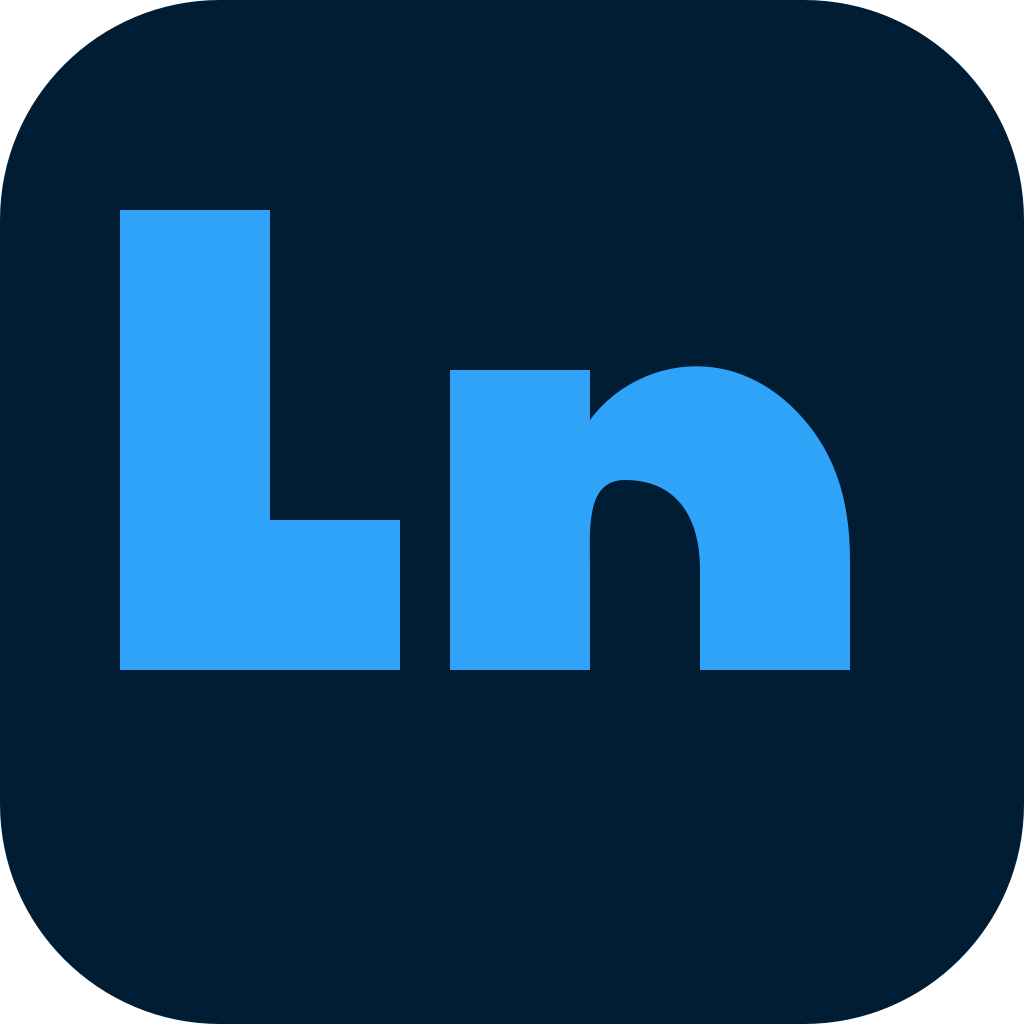
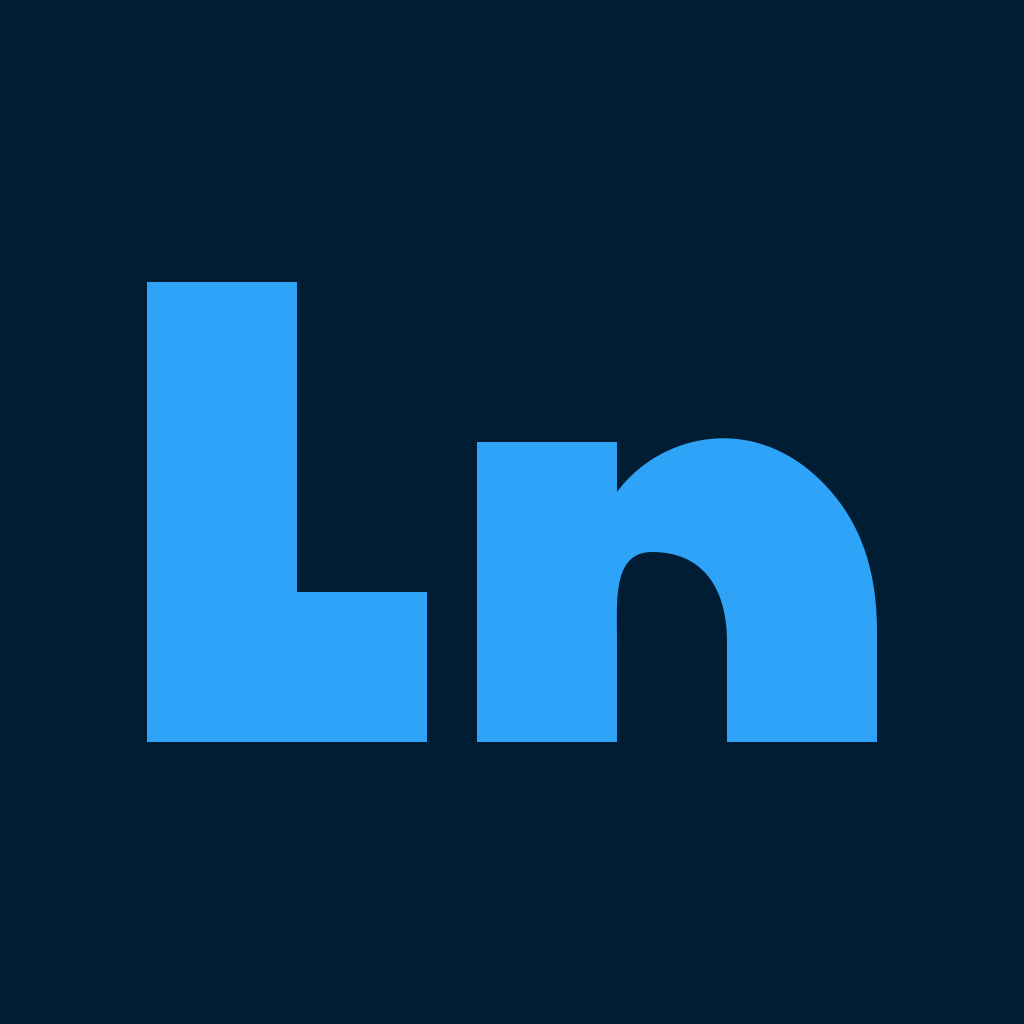
fix(android): 居中 LightNote 图标并移除预置外框
将 Ln 字形按真实边界校正到画布中心，Android、业务 Web 与官网统一为满幅直角矩形母版，不在图片内部烘焙圆角、边框或外边距；Android 圆形入口仅在生成 round 资源时裁切。n 保持小写，背景保持 #001D34，文字保持 #2FA3F7。
Android 版本更新为 1.4.2 / versionCode 13，Web 版本更新为 5.1.1。
验证：512px 图标四角和四边像素均为 #001D34，字形中心与画布中心重合；Web 36 个测试文件共 150 项通过，Web/官网生产构建通过，Android assembleDebug 与 lintDebug 通过。

diff --git a/docs/20261121-LightNote图标居中与全平台打包.md b/docs/20261121-LightNote图标居中与全平台打包.md
@@ -1,0 +1,26 @@
+# LightNote 图标居中与全平台打包
+
+## 改动目的
+
+修正 LightNote 图标中 `L` 与小写 `n` 组合视觉不居中的问题，并移除图片内部预先制作的圆角、边框和外边距。图标母版保持满幅直角矩形，实际圆角由 Web CSS 或 Android Launcher 掩膜决定。
+
+## 主要内容
+
+- 按字形真实边界将 `Ln` 整体水平右移 27 单位、垂直下移 72 单位，使组合中心与 1024 × 1024 画布中心重合。
+- Android、业务 Web 和官网共用同一份满幅矩形矢量母版，背景 `#001D34`，文字 `#2FA3F7`。
+- Web 和官网继续通过 CSS 圆角裁切；Android Adaptive Icon 由 Launcher 掩膜，旧版方形入口保持满幅，圆形入口在资源生成阶段裁圆。
+- Android 版本更新为 `1.4.2` / `versionCode 13`，Web 版本更新为 `5.1.1`。
+
+## 验证方式及结果
+
+- 重新生成业务 Web、官网 180/192/512 图标和 Android 全密度、自适应、单色、圆形及启动屏资源。
+- 检查母版与 Android 方形资源无外边距、无预烘焙圆角；512px 母版蓝色字形边界为 `(74,141)-(438,371)`，中心精确为 `(256,256)`。四角与四边像素均为 `#001D34`。
+- 重新构建业务 Web、官网、Android APK 和 Android Web 热更新资源。
+- 已通过 Web 36 个测试文件、150 项测试、TypeScript 与生产构建，Android `assembleDebug`、`lintDebug`，以及官网类型检查、国际化、配置和生产构建。
+- 后端运行时代码未改动，复用现有 `4.12.1` 镜像；最终交付前校验压缩包完整性和 SHA-256。
+
+## 尚未验证或已知限制
+
+- Android APK 仍使用调试签名；正式覆盖升级需要既有 release keystore。
+- PC、iOS、微信小程序目录当前只有占位文件，无法生成本平台安装包。
+- 未重新执行后端测试、生产部署和真实设备最终验收。
